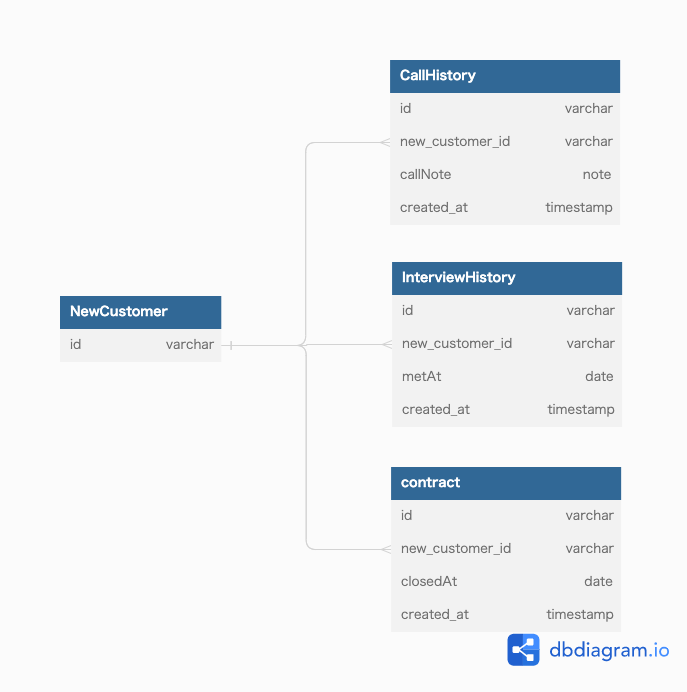
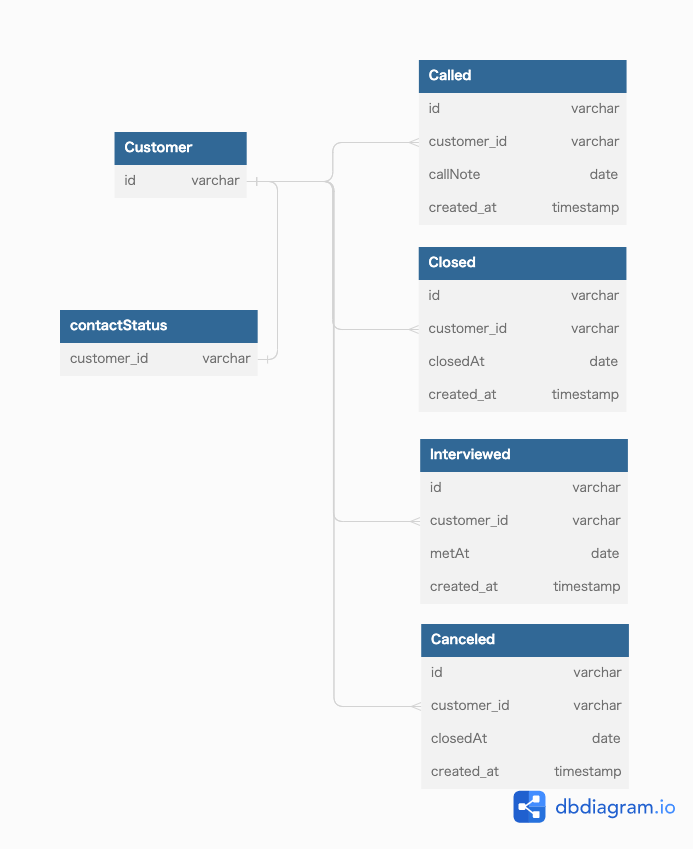
DBアンチパターン5 修正

diff --git a/DB/anti-pattern-5/回答.md b/DB/anti-pattern-5/回答.md
@@ -14,15 +14,18 @@
 
 ### 課題2
 ![](./work/anti-pattern5.png)
-- NewCustomer からイベントを切り離す
+- Customer からイベントを切り離す
+- 顧客が今どの状態にあるかを判断させるカラムを用意した(未契約、契約中、解約中を想定)
+  - 顧客の状態が複数の理由により更新されるのを避けたいため契約ステータステーブルを作成した
+    - やりすぎ。。。？
 - 電話をかけたか、面談したかなどの情報はイベントテーブルと結合することで判断する
   ```sql
-  # 電話済みの新規顧客
-  SELECT nc.id FROM NewCustomer nc JOIN CallHistory ch ON nc.id = ch.new_customer_id GROUP BY (nc.id)
+  # 電話済みの顧客
+  SELECT c.id FROM Customer c JOIN CallHistory ch ON c.id = ch.customer_id GROUP BY (c.id)
   ```
   ```sql
-  # まだ電話していない新規顧客
-  SELECT nc.* FROM NewCustomer nc LEFT JOIN CallHistory ch ON nc.id = ch.new_customer_id WHERE nc.id IS NOT NULL
+  # まだ電話していない顧客
+  SELECT c.* FROM Customer c LEFT JOIN CallHistory ch ON c.id = ch.customer_id WHERE c.id IS NOT NULL
   ```
 - 上記テーブルの他に面談予定テーブルなども作成されると考えられる
 

diff --git a/DB/anti-pattern-5/work/ER.md b/DB/anti-pattern-5/work/ER.md
@@ -1,30 +1,45 @@
 ```
-TABLE NewCustomer as nc {
+TABLE Customer as nc {
   id varchar
 }
 
-TABLE CallHistory as ch {
+TABLE Called {
   id varchar
-  new_customer_id varchar
-  callNote note
+  customer_id varchar
+  callNote date
   created_at timestamp
 }
 
-TABLE InterviewHistory as ih {
+TABLE Interviewed {
   id varchar
-  new_customer_id varchar
+  customer_id varchar
   metAt date
   created_at timestamp
 }
 
-TABLE contract as c {
+TABLE Closed {
   id varchar
-  new_customer_id varchar
+  customer_id varchar
   closedAt date
   created_at timestamp
 }
 
-Ref: ch.new_customer_id > nc.id
-Ref: ih.new_customer_id > nc.id
-Ref: c.new_customer_id > nc.id
+TABLE Canceled {
+  id varchar
+  customer_id varchar
+  closedAt date
+  created_at timestamp
+}
+
+TABLE contactStatus {
+  customer_id varchar
+  
+}
+
+Ref: contactStatus.customer_id - Customer.id
+
+Ref: Called.customer_id > Customer.id
+Ref: Interviewed.customer_id > Customer.id
+Ref: Closed.customer_id > Customer.id
+Ref: Canceled.customer_id > Customer.id
 ```
